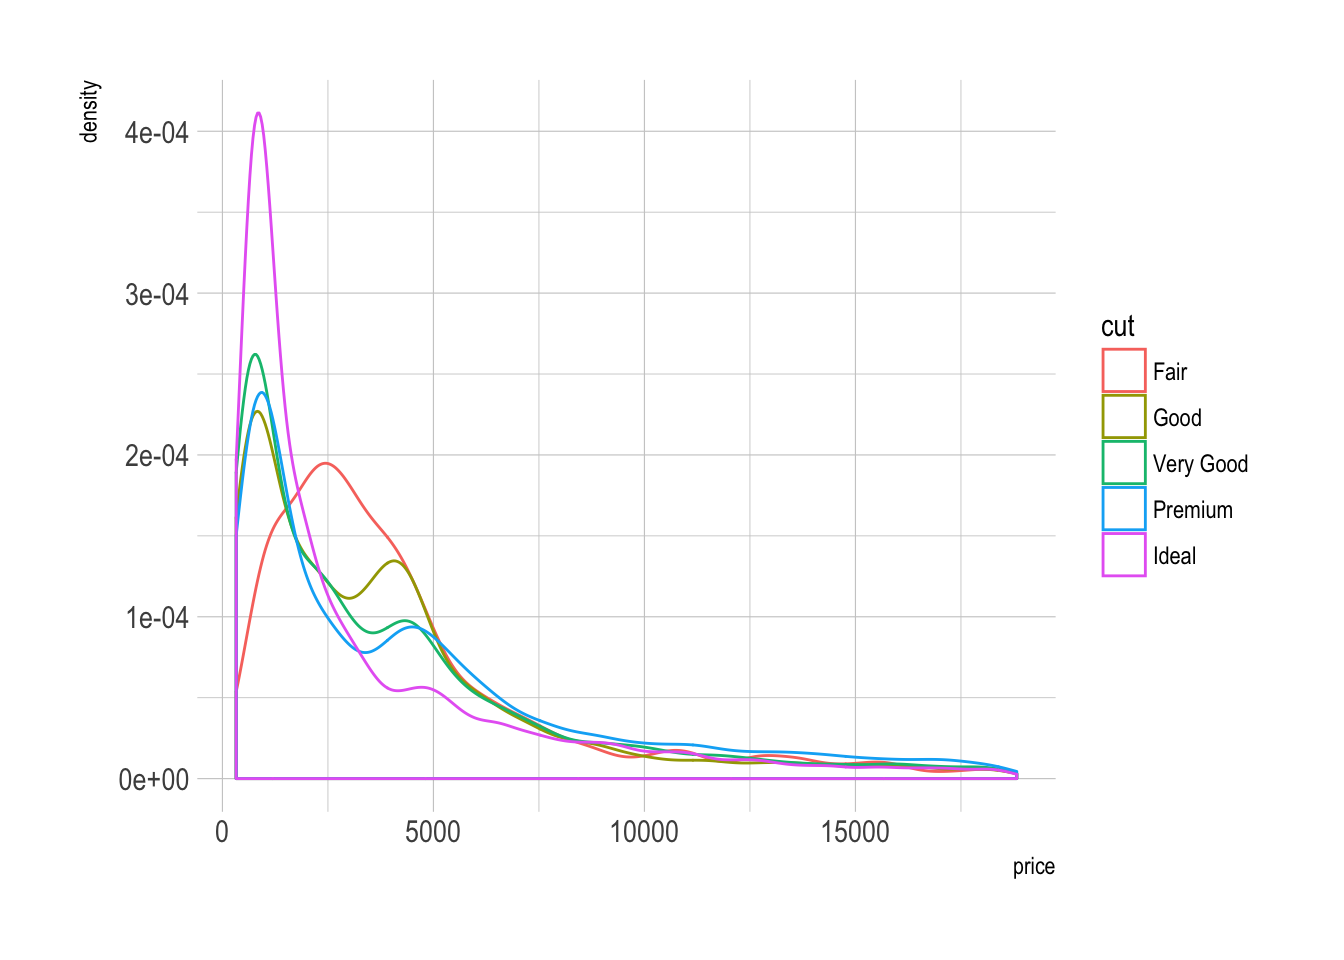
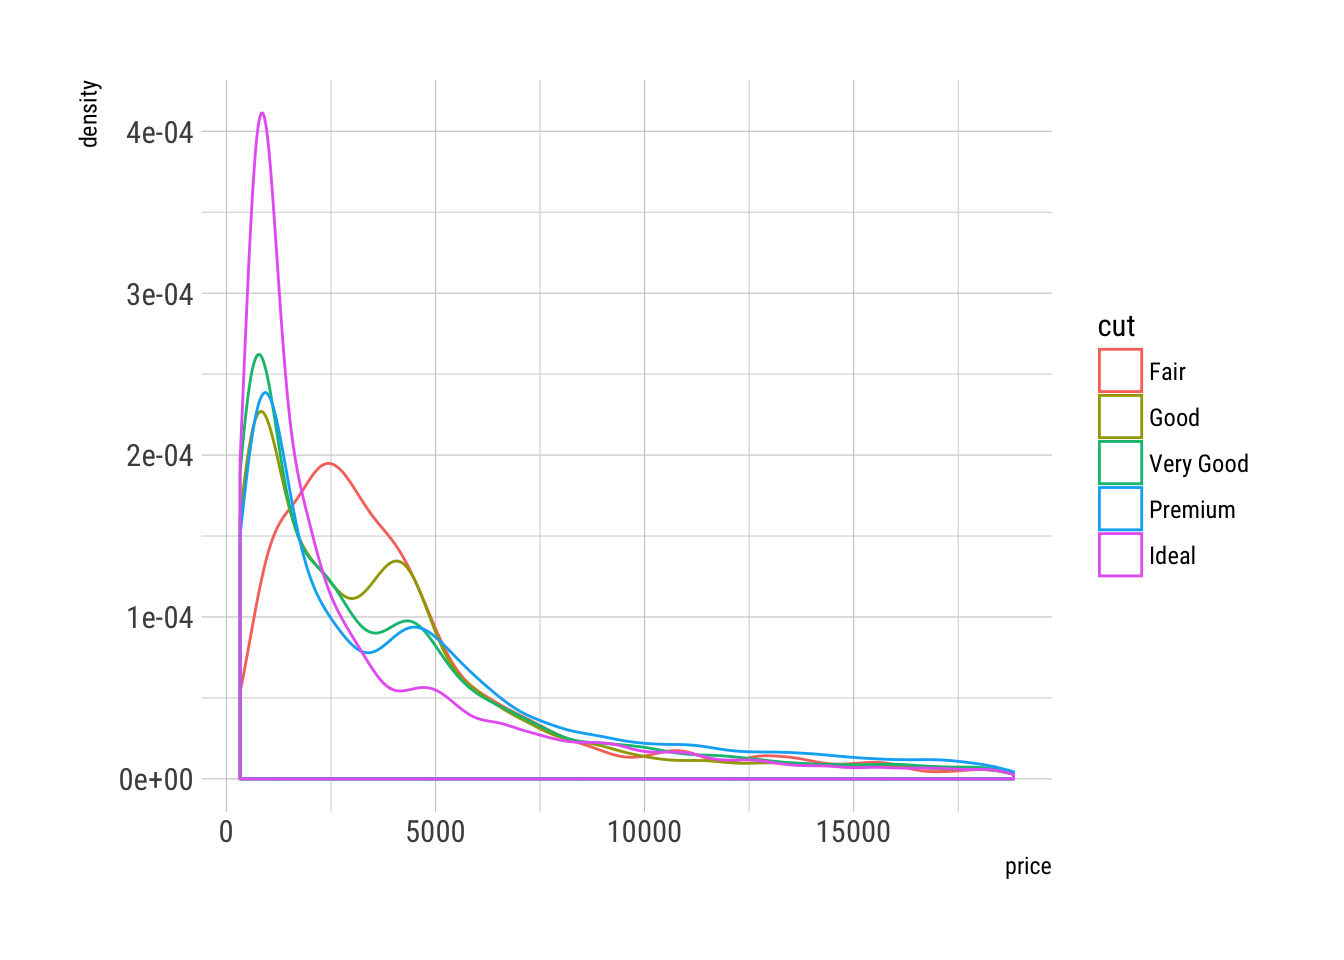
method in geom_smooth now explicit, added exotic color palettes

diff --git a/docs/2017/03/07/ggplot2-part-2/index.html b/docs/2017/03/07/ggplot2-part-2/index.html
@@ -127,7 +127,7 @@
 <pre class="r"><code># devtools package can be installed as install.packages(&quot;devtools&quot;)
 # hrbrthemes package can be then installed as devtools::install_github(&quot;hrbrmstr/hrbrthemes&quot;)
 library(hrbrthemes)
-p1 + theme_ipsum()   # or theme_ipsum_rc() on MacOS  </code></pre>
+p1 + theme_ipsum_rc()   # or theme_ipsum() on Windows</code></pre>
 <p><img src="../../../../post/2017-03-07-ggplot2-part-2_files/figure-html/unnamed-chunk-6-1.png" width="672" /></p>
 </div>
 <div id="scales" class="section level2">
@@ -145,6 +145,12 @@ s</code></pre>
 <li>for color, try <code>scale_color_grey</code> and <code>scale_color_brewer(palette = &quot;Set1&quot;)</code></li>
 <li>for axis, try <code>scale_x_log10()</code> and <code>scale_y_log10()</code></li>
 </ul>
+<p>There are also several packages with more exotic color scales:</p>
+<ul>
+<li><code>ggsci</code>: scientific journal color palettes <a href="https://cran.r-project.org/web/packages/ggsci/vignettes/ggsci.html">[link]</a></li>
+<li><code>wesanderson</code>: palletes inspired by Wes Anderson’s movies <a href="https://github.com/karthik/wesanderson">[link]</a></li>
+<li><code>RSkittleBrewer</code>: for those times you want to make plots with candy-themed color schemes <a href="https://github.com/alyssafrazee/RSkittleBrewer">[link]</a></li>
+</ul>
 </div>
 <div id="challenge-3" class="section level4">
 <h4>Challenge 3:</h4>
@@ -161,7 +167,6 @@ s</code></pre>
 <div id="challenge-4" class="section level4">
 <h4>Challenge 4:</h4>
 <p>Now experiment with labels, themes, and scales to make a clear graph how a price of diamond depends on its weight. Perhaps this one, or any other you like.</p>
-<pre><code>## `geom_smooth()` using method = &#39;gam&#39; and formula &#39;y ~ s(x, bs = &quot;cs&quot;)&#39;</code></pre>
 <p><img src="../../../../post/2017-03-07-ggplot2-part-2_files/figure-html/unnamed-chunk-9-1.png" width="672" /></p>
 </div>
 </div>

diff --git a/content/post/2017-03-07-ggplot2-part-2.html b/content/post/2017-03-07-ggplot2-part-2.html
@@ -68,7 +68,7 @@ output:
 <pre class="r"><code># devtools package can be installed as install.packages(&quot;devtools&quot;)
 # hrbrthemes package can be then installed as devtools::install_github(&quot;hrbrmstr/hrbrthemes&quot;)
 library(hrbrthemes)
-p1 + theme_ipsum()   # or theme_ipsum_rc() on MacOS  </code></pre>
+p1 + theme_ipsum_rc()   # or theme_ipsum() on Windows</code></pre>
 <p><img src="/post/2017-03-07-ggplot2-part-2_files/figure-html/unnamed-chunk-6-1.png" width="672" /></p>
 </div>
 <div id="scales" class="section level2">
@@ -86,6 +86,12 @@ s</code></pre>
 <li>for color, try <code>scale_color_grey</code> and <code>scale_color_brewer(palette = &quot;Set1&quot;)</code></li>
 <li>for axis, try <code>scale_x_log10()</code> and <code>scale_y_log10()</code></li>
 </ul>
+<p>There are also several packages with more exotic color scales:</p>
+<ul>
+<li><code>ggsci</code>: scientific journal color palettes <a href="https://cran.r-project.org/web/packages/ggsci/vignettes/ggsci.html">[link]</a></li>
+<li><code>wesanderson</code>: palletes inspired by Wes Anderson’s movies <a href="https://github.com/karthik/wesanderson">[link]</a></li>
+<li><code>RSkittleBrewer</code>: for those times you want to make plots with candy-themed color schemes <a href="https://github.com/alyssafrazee/RSkittleBrewer">[link]</a></li>
+</ul>
 </div>
 <div id="challenge-3" class="section level4">
 <h4>Challenge 3:</h4>
@@ -102,7 +108,6 @@ s</code></pre>
 <div id="challenge-4" class="section level4">
 <h4>Challenge 4:</h4>
 <p>Now experiment with labels, themes, and scales to make a clear graph how a price of diamond depends on its weight. Perhaps this one, or any other you like.</p>
-<pre><code>## `geom_smooth()` using method = &#39;gam&#39; and formula &#39;y ~ s(x, bs = &quot;cs&quot;)&#39;</code></pre>
 <p><img src="/post/2017-03-07-ggplot2-part-2_files/figure-html/unnamed-chunk-9-1.png" width="672" /></p>
 </div>
 </div>
